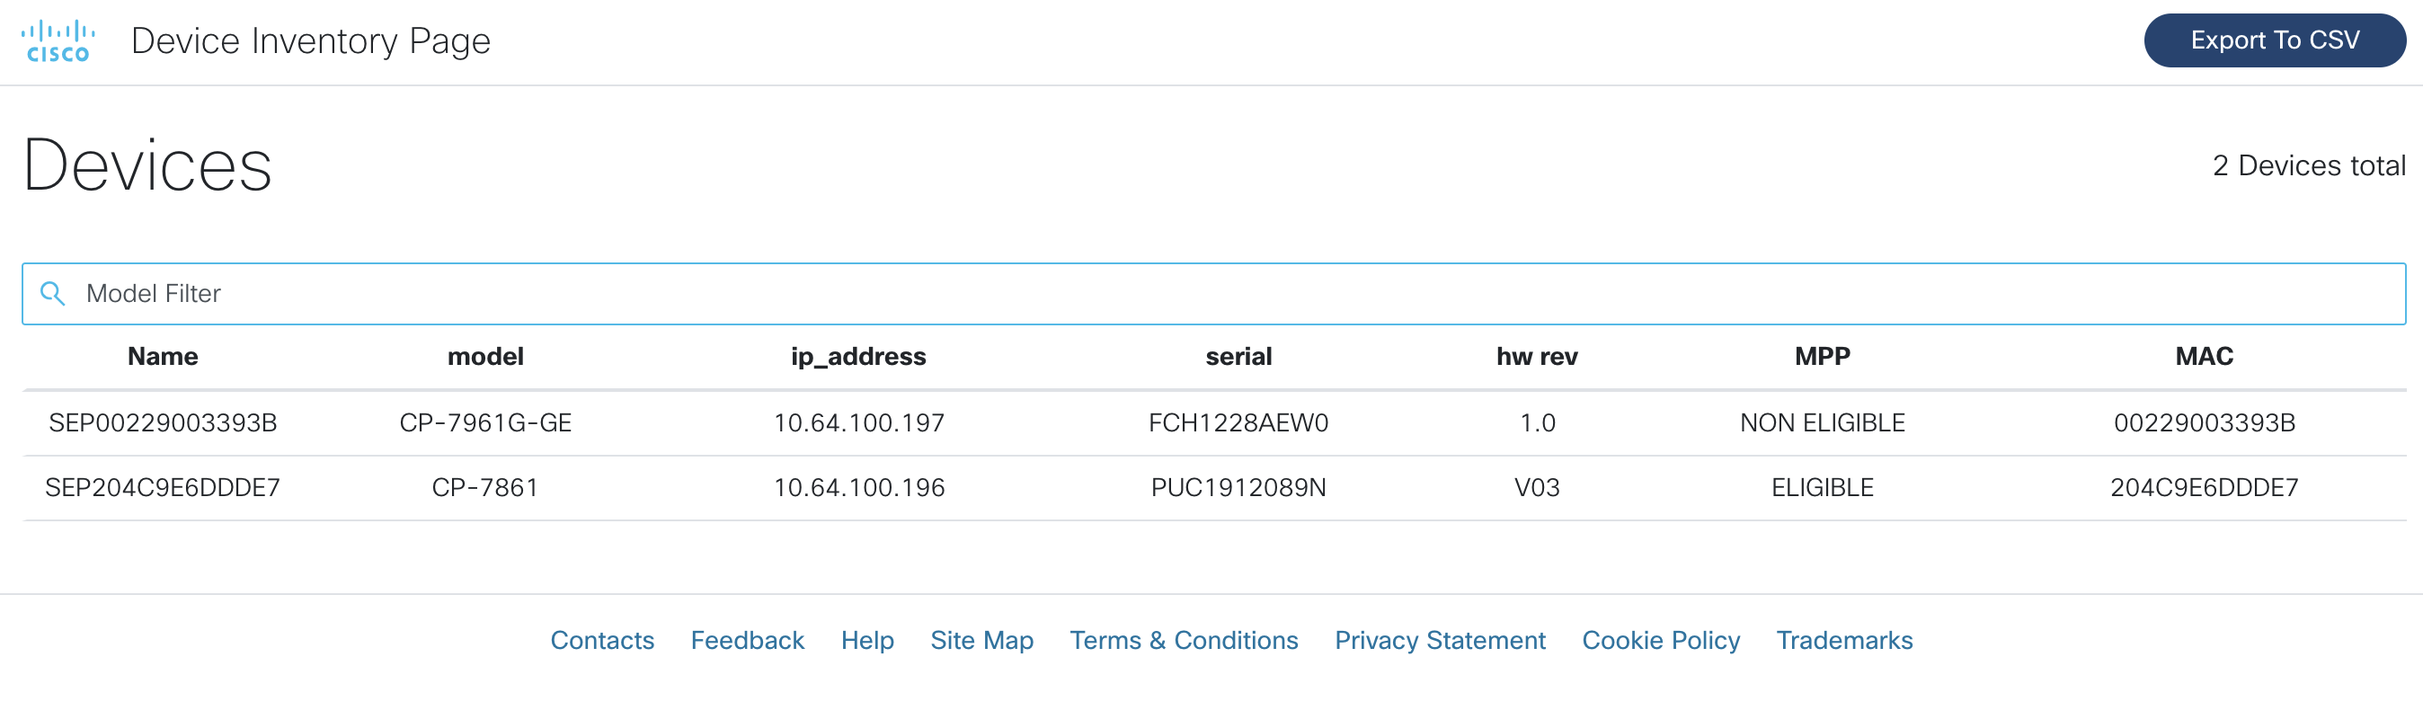
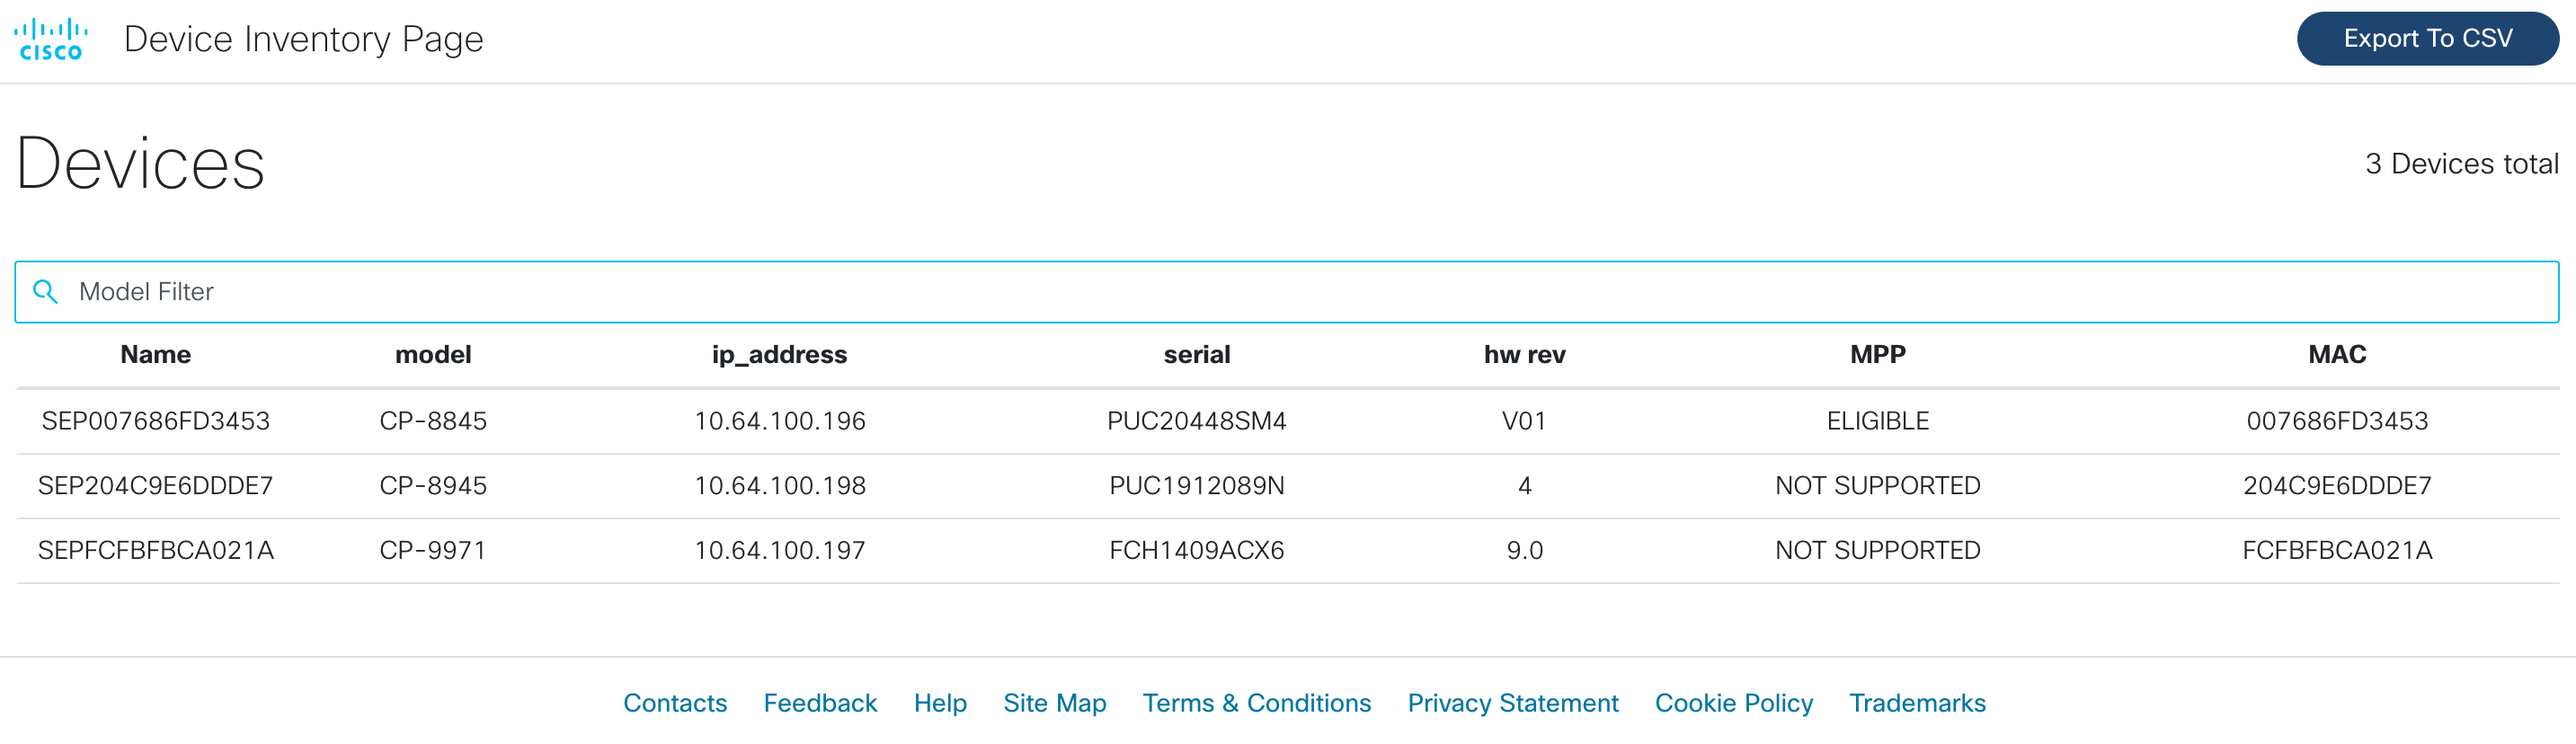
Baselined from internal Repository last_commit:23e0bec47468f8365da7b42796eb9bc88c1444fc

diff --git a/app/main.py b/app/main.py
@@ -69,7 +69,7 @@ def main():
         device_name = device_risport["Name"]
         device = {}
         if device_name[0:3] == "SEP" and device_risport["Status"] == "Registered":
-            print("device created for ", device_name)
+            print("creating device for ", device_name)
 
             device["name"] = device_name
 
@@ -85,19 +85,21 @@ def main():
                 device["serial_number"] = device_data[1]
                 device["hardware_revision"] = device_data[2]
                 device["model_number"] = device_data[3]
+            if device["model_number"][0:3] == "CP-":
+                if device["model_number"] in ELIGIBLE:
+                    device["mpp_eligible"] = "ELIGIBLE"
+                    if device["model_number"] in SUPPORTED_MIN_HW_CHECK.keys():
+                        if (
+                            device["hardware_revision"]
+                            < SUPPORTED_MIN_HW_CHECK[device["model_number"]]
+                        ):
+                            device["mpp_eligible"] = "NON ELIGIBLE"
+                else:
+                    device["mpp_eligible"] = "NOT SUPPORTED"
 
-            if device["model_number"] in ELIGIBLE:
-                device["mpp_eligible"] = "ELIGIBLE"
-                if device["model_number"] in SUPPORTED_MIN_HW_CHECK.keys():
-                    if (
-                        device["hardware_revision"]
-                        < SUPPORTED_MIN_HW_CHECK[device["model_number"]]
-                    ):
-                        device["mpp_eligible"] = "NOT SUPPORTED"
+                device_list.append(device)
             else:
-                device["mpp_eligible"] = "NON ELIGIBLE"
-
-            device_list.append(device)
+                print("skipping device that is not model CP-")
 
     return render_template(
         "inventory.html",

diff --git a/README.md b/README.md
@@ -77,8 +77,6 @@ python3 main.py
 
 ![alt text](images/web_page_screenshot1.png)
 
-![alt text](images/web_page_screenshot2.png)
-
 ### API Reference/Documentation (VERY USEFUL TO CHECK OUT!):
 
 - [Original code repo from David Staudt using suds python libary (library being used for this project)] (https://github.com/CiscoDevNet/axl-python-suds-sample)
